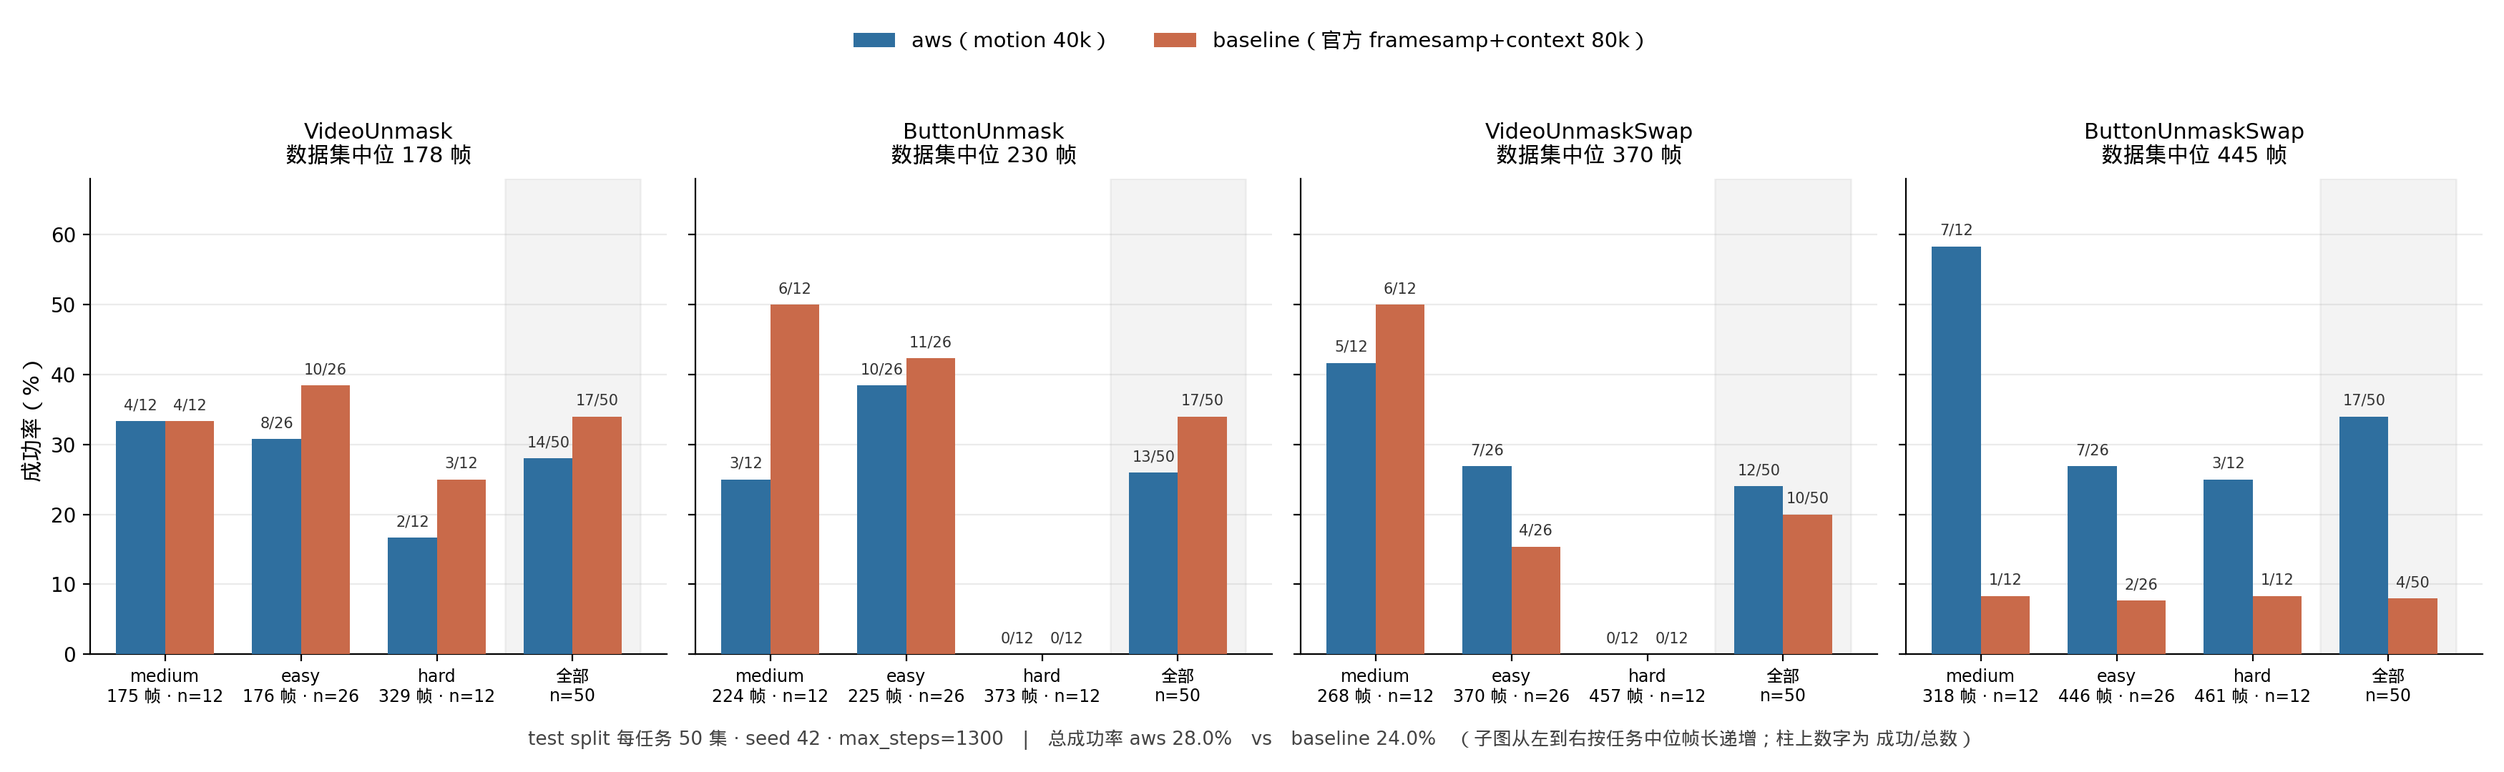
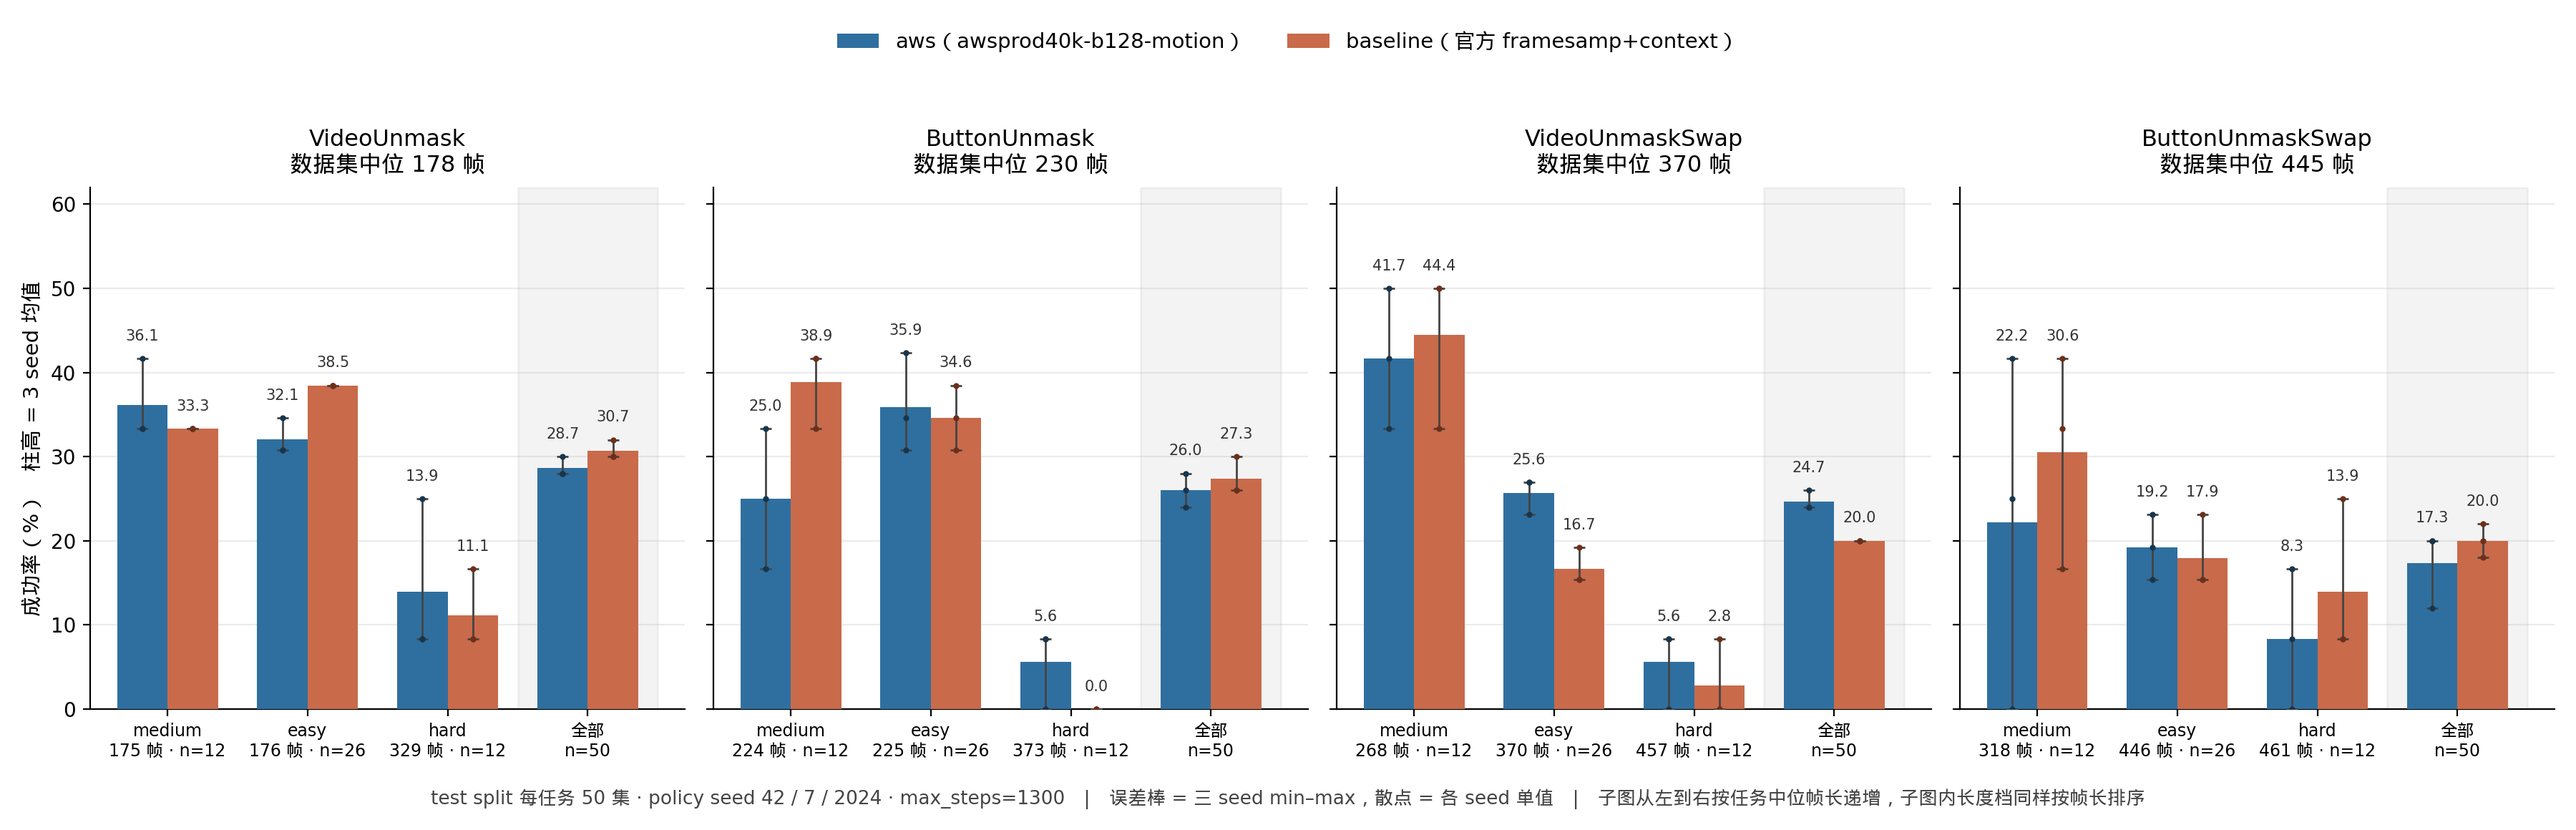
commitV5.14: 成功率对照图改用三 seed 数据——单 seed 版的长任务优势不成立
上一版（commitV5.13）用的是 eval-awsprod40k-b128-motion 与 eval-official-framesamp-context
两条单 seed run，读出「长任务 aws 明显占优、ButtonUnmaskSwap 34% vs 8%」。origin/v2-motionmem
上的 eval-3seed-context-vs-motion（SEED_AGG=DONE，两组 × 4 任务 × 50 集 × 3 seed = 1200 集，
errors=0）已把该口径推翻：同一 checkpoint 换 seed 后 ButtonUnmaskSwap 的 aws 三 seed 为
12/18/22%（均值 17.3%）、官方为 18/20/22%（均值 20.0%），差值由 +26.0pp 变为 -2.7pp。
故本图改读 records/per_episode_by_seed.json，柱高取三 seed 均值、误差棒取 min-max、
再叠三个 seed 的散点，让 seed 方差在图上直接可见。

保留的图形约定：四个子图按任务中位帧长递增排列（178 / 230 / 370 / 445 帧），子图内
长度档同样按该任务自己的中位帧长排序（多数任务是 medium < easy < hard），末档为 50 集合计
并加浅灰底。数字标签抬到误差棒上端之上，否则 min-max 跨度大的格子会把数字压住。

三 seed 下按长度分箱的结论（逐 seed 先合再算）：≤200 帧 aws 33.3% / base 36.8%，
200-300 帧 34.7% / 38.0%，300-400 帧 18.8% / 15.1%，>400 帧 13.3% / 13.3%——
单 seed 版那条「越长 aws 越占优」的单调趋势不再成立，只剩 VideoUnmaskSwap 一个任务
（+4.7pp）方向一致。总体 aws 24.2% vs base 24.5%。

脚本加 --ref 参数从任意 git ref 只读取逐集 JSON（默认 origin/v2-motionmem，因该留档尚未
合进本地分支），并在收尾用留档的 cells 字段逐格复核聚合口径，输出 CELL_CHECK=PASS
cells=24 mismatch=0。

Claude-Session: https://claude.ai/code/session_01QpApkGEbsdcgdftqZaEbK4

diff --git a/scripts/analysis/plot_eval_success_by_length.py b/scripts/analysis/plot_eval_success_by_length.py
@@ -1,20 +1,28 @@
 #!/usr/bin/env python3
-"""按任务长度画 aws motion run 与官方 framesamp+context baseline 的成功率对照图。
+"""按任务 × 任务长度画官方 framesamp+context baseline 与 aws motion run 的成功率对照图。
 
-四个任务各一张子图，横轴是该任务内部按中位 episode 帧长排序的难度档（easy/medium/hard），
-纵轴是成功率。所有数字从留档 JSON 现读，不手抄：
+四个任务各一张子图（从左到右按官方数据集中位 episode 帧长递增），子图内横轴是该任务
+自己的长度档（easy/medium/hard 按该任务的中位帧长排序，多数任务不是字面顺序），
+末尾补一档 50 集合计。柱高是三个 policy seed（42 / 7 / 2024）的成功率均值，
+误差棒取三 seed 的 min–max，叠加的散点是三个 seed 各自的值。
 
-- 成功/总数：docs/training-doc/<run>/records/per_episode.json 的 episodes 逐集 success 字段
+所有数字现读留档 JSON、不手抄：
+
+- 逐集成败：eval-3seed-context-vs-motion 的 records/per_episode_by_seed.json
+  （两组 × 4 任务 × 50 集 × 3 seed = 1200 集，SEED_AGG=DONE errors=0）。
+  该文件只在 origin/v2-motionmem 上，脚本按 --ref 用 `git show` 取，默认读工作区已有的那份。
 - 中位帧长：docs/dataset-build-doc/16task-h5-scan/records/memory_axis_16task.json
   （官方 H5 数据集 train split 口径，demo+exec 全长；eval 跑的是 test split，
    逐集实际执行步数未逐集留档，故长度轴用数据集口径的中位值作代理）
 
-用法：uv run python scripts/analysis/plot_eval_success_by_length.py
+用法：uv run python scripts/analysis/plot_eval_success_by_length.py [--ref origin/v2-motionmem]
 """
 
 from __future__ import annotations
 
+import argparse
 import json
+import subprocess
 from collections import defaultdict
 from pathlib import Path
 
@@ -25,24 +33,27 @@ import matplotlib.pyplot as plt
 from matplotlib import font_manager
 
 REPO = Path(__file__).resolve().parents[2]
-RUN_AWS = "eval-awsprod40k-b128-motion"
-RUN_BASE = "eval-official-framesamp-context"
+BY_SEED_REL = "docs/training-doc/eval-3seed-context-vs-motion/records/per_episode_by_seed.json"
 AXIS_JSON = REPO / "docs/dataset-build-doc/16task-h5-scan/records/memory_axis_16task.json"
 OUT_PNG = REPO / "docs/eval-success-by-task-length.png"
 
 TASKS = ["VideoUnmask", "ButtonUnmask", "VideoUnmaskSwap", "ButtonUnmaskSwap"]
 DIFFS = ["easy", "medium", "hard"]
 
-C_AWS = "#2f6f9f"      # 我们的 motion run
-C_BASE = "#c96a4a"     # 官方 baseline
-C_ALL = "#8c8c8c"      # 全任务合计一档的分隔底色
+# 组名 -> (图例, 柱色, 散点色)
+GROUPS = {
+    "motion": ("aws（awsprod40k-b128-motion）", "#2f6f9f", "#17364d"),
+    "official": ("baseline（官方 framesamp+context）", "#c96a4a", "#6e2f19"),
+}
+ORDER = ["motion", "official"]
 
 
 def setup_font() -> None:
     """拼一条 DejaVu Sans → Droid Sans Fallback 的字体回退链。
 
-    Droid Sans Fallback 是纯 CJK 回退字体，不含 ASCII 字形（单独用会丢掉 "+"、"c" 等字符），
-    所以拉丁字符交给 DejaVu Sans，中文由它兜底。
+    Droid Sans Fallback 是纯 CJK 回退字体、不含 ASCII 字形（单独用会丢 "+"、"c" 等字符），
+    所以拉丁字符交给 DejaVu Sans、中文由它兜底。回退必须直接写进 font.family 列表——
+    走 font.sans-serif 别名时 matplotlib 3.10 的 fallback 不生效（实测中文仍是豆腐块）。
     """
     fonts = ["DejaVu Sans"]
     cjk = Path("/usr/share/fonts/google-droid-sans-fonts/DroidSansFallbackFull.ttf")
@@ -53,16 +64,12 @@ def setup_font() -> None:
     plt.rcParams["axes.unicode_minus"] = False
 
 
-def load_counts(run_name: str) -> dict[tuple[str, str], list[int]]:
-    """读一条 eval run 的逐集结果，聚合成 (任务, 难度) -> [成功数, 总数]。"""
-    path = REPO / "docs/training-doc" / run_name / "records/per_episode.json"
-    data = json.loads(path.read_text())
-    counts: dict[tuple[str, str], list[int]] = defaultdict(lambda: [0, 0])
-    for ep in data["episodes"]:
-        key = (ep["task"], ep["difficulty"])
-        counts[key][1] += 1
-        counts[key][0] += int(ep["success"])
-    return counts, data["mean_rate"]
+def load_by_seed(ref: str | None) -> dict:
+    if ref:
+        out = subprocess.run(["git", "show", f"{ref}:{BY_SEED_REL}"], cwd=REPO,
+                             capture_output=True, text=True, check=True).stdout
+        return json.loads(out)
+    return json.loads((REPO / BY_SEED_REL).read_text())
 
 
 def load_medians() -> dict[tuple[str, str], int]:
@@ -74,70 +81,100 @@ def load_medians() -> dict[tuple[str, str], int]:
     }
 
 
-def main() -> None:
-    setup_font()
-    aws, aws_mean = load_counts(RUN_AWS)
-    base, base_mean = load_counts(RUN_BASE)
-    med = load_medians()
+def tally(data: dict) -> tuple[dict, list[str]]:
+    """聚合成 (组, 任务, 长度档) -> {seed: [成功数, 总数]}；"all" 档为该任务 50 集合计。"""
+    seeds = [str(s) for s in data["seeds"]]
+    cnt: dict[tuple[str, str, str], dict[str, list[int]]] = defaultdict(
+        lambda: {s: [0, 0] for s in seeds})
+    for ep in data["episodes"]:
+        for bucket in (ep["difficulty"], "all"):
+            cell = cnt[(ep["group"], ep["task"], bucket)]
+            for s in seeds:
+                cell[s][1] += 1
+                cell[s][0] += int(ep["results"][s]["success"])
+    return cnt, seeds
 
-    # 子图顺序 = 任务按 all 档中位帧长从短到长
+
+def main() -> None:
+    ap = argparse.ArgumentParser()
+    ap.add_argument("--ref", default="origin/v2-motionmem",
+                    help="从该 git ref 只读取逐集 JSON；留空则读工作区文件")
+    args = ap.parse_args()
+
+    setup_font()
+    data = load_by_seed(args.ref or None)
+    cnt, seeds = tally(data)
+    med = load_medians()
     tasks = sorted(TASKS, key=lambda t: med[(t, "all")])
 
-    fig, axes = plt.subplots(1, 4, figsize=(17.5, 5.4), sharey=True)
+    fig, axes = plt.subplots(1, 4, figsize=(18, 5.8), sharey=True)
     width = 0.36
-
     for ax, task in zip(axes, tasks):
-        # 任务内部按中位帧长排序（多数任务是 medium < easy < hard，不是字面顺序）
-        diffs = sorted(DIFFS, key=lambda d: med[(task, d)])
-        labels, aws_pct, base_pct, aws_txt, base_txt = [], [], [], [], []
-        for d in diffs:
-            a, b = aws[(task, d)], base[(task, d)]
-            labels.append(f"{d}\n{med[(task, d)]} 帧 · n={a[1]}")
-            aws_pct.append(a[0] / a[1] * 100)
-            base_pct.append(b[0] / b[1] * 100)
-            aws_txt.append(f"{a[0]}/{a[1]}")
-            base_txt.append(f"{b[0]}/{b[1]}")
-        # 末尾补一档任务合计（50 集）
-        a_all = [sum(aws[(task, d)][i] for d in DIFFS) for i in (0, 1)]
-        b_all = [sum(base[(task, d)][i] for d in DIFFS) for i in (0, 1)]
-        labels.append(f"全部\nn={a_all[1]}")
-        aws_pct.append(a_all[0] / a_all[1] * 100)
-        base_pct.append(b_all[0] / b_all[1] * 100)
-        aws_txt.append(f"{a_all[0]}/{a_all[1]}")
-        base_txt.append(f"{b_all[0]}/{b_all[1]}")
+        buckets = sorted(DIFFS, key=lambda d: med[(task, d)]) + ["all"]
+        labels = [
+            (f"全部\nn={cnt[('motion', task, 'all')][seeds[0]][1]}" if b == "all"
+             else f"{b}\n{med[(task, b)]} 帧 · n={cnt[('motion', task, b)][seeds[0]][1]}")
+            for b in buckets
+        ]
+        xs = range(len(buckets))
+        ax.axvspan(len(buckets) - 1.5, len(buckets) - 0.5, color="#8c8c8c", alpha=0.10, zorder=0)
 
-        xs = range(len(labels))
-        ax.axvspan(len(labels) - 1.5, len(labels) - 0.5, color=C_ALL, alpha=0.10, zorder=0)
-        bars_a = ax.bar([x - width / 2 for x in xs], aws_pct, width,
-                        label="aws（motion 40k）", color=C_AWS, zorder=3)
-        bars_b = ax.bar([x + width / 2 for x in xs], base_pct, width,
-                        label="baseline（官方 framesamp+context 80k）", color=C_BASE, zorder=3)
-        for bars, txts in ((bars_a, aws_txt), (bars_b, base_txt)):
-            for bar, txt in zip(bars, txts):
-                ax.text(bar.get_x() + bar.get_width() / 2, bar.get_height() + 1.2, txt,
-                        ha="center", va="bottom", fontsize=7.5, color="#333333", zorder=4)
+        for gi, gname in enumerate(ORDER):
+            legend, bar_c, dot_c = GROUPS[gname]
+            off = (gi - 0.5) * width
+            means, lo, hi, per_seed = [], [], [], []
+            for b in buckets:
+                cell = cnt[(gname, task, b)]
+                rates = [cell[s][0] / cell[s][1] * 100 for s in seeds]
+                m = sum(rates) / len(rates)
+                means.append(m)
+                lo.append(m - min(rates))
+                hi.append(max(rates) - m)
+                per_seed.append(rates)
+            bars = ax.bar([x + off for x in xs], means, width, label=legend,
+                          color=bar_c, zorder=3)
+            ax.errorbar([x + off for x in xs], means, yerr=[lo, hi], fmt="none",
+                        ecolor="#444444", elinewidth=1.0, capsize=3, zorder=5)
+            for x, rates in zip(xs, per_seed):
+                ax.scatter([x + off] * len(rates), rates, s=9, color=dot_c,
+                           zorder=6, linewidths=0)
+            # 标签抬到误差棒上端之上，否则 min-max 跨度大的格子会把数字压住
+            for bar, m, rates in zip(bars, means, per_seed):
+                ax.text(bar.get_x() + bar.get_width() / 2, max(max(rates), m) + 1.8,
+                        f"{m:.1f}", ha="center", va="bottom", fontsize=7.5,
+                        color="#333333", zorder=7)
 
         ax.set_xticks(list(xs))
         ax.set_xticklabels(labels, fontsize=8.5)
-        ax.set_title(f"{task}\n数据集中位 {med[(task, 'all')]} 帧", fontsize=11, pad=8)
-        ax.set_ylim(0, 68)
+        ax.set_title(f"{task}\n数据集中位 {med[(task, 'all')]} 帧", fontsize=11.5, pad=8)
+        ax.set_ylim(0, 62)
         ax.grid(axis="y", alpha=0.25, zorder=0)
         ax.set_axisbelow(True)
         for side in ("top", "right"):
             ax.spines[side].set_visible(False)
 
-    axes[0].set_ylabel("成功率（%）", fontsize=11)
+    axes[0].set_ylabel("成功率（%）　柱高 = 3 seed 均值", fontsize=10.5)
     handles, labels_ = axes[0].get_legend_handles_labels()
     fig.legend(handles, labels_, loc="upper center", ncol=2, frameon=False,
                bbox_to_anchor=(0.5, 0.985), fontsize=10.5)
     fig.suptitle(
-        f"test split 每任务 50 集 · seed 42 · max_steps=1300　|　"
-        f"总成功率 aws {aws_mean * 100:.1f}%　vs　baseline {base_mean * 100:.1f}%　"
-        f"（子图从左到右按任务中位帧长递增；柱上数字为 成功/总数）",
-        fontsize=9.5, y=0.055, color="#444444")
-    fig.tight_layout(rect=(0, 0.055, 1, 0.925))
+        "test split 每任务 50 集 · policy seed 42 / 7 / 2024 · max_steps=1300　|　"
+        "误差棒 = 三 seed min–max，散点 = 各 seed 单值　|　"
+        "子图从左到右按任务中位帧长递增，子图内长度档同样按帧长排序",
+        fontsize=9.5, y=0.05, color="#444444")
+    fig.tight_layout(rect=(0, 0.055, 1, 0.92))
     fig.savefig(OUT_PNG, dpi=200)
     print(f"WROTE {OUT_PNG}")
+
+    # 复核：与留档 cells 的逐格成功数逐一比对，防止聚合口径写错
+    bad = 0
+    for key, cell in data["cells"].items():
+        g, s, t = key.split("|")
+        got = cnt[(g, t, "all")][s]
+        if got[0] != cell["success"] or got[1] != cell["n"]:
+            print(f"MISMATCH {key}: got {got} want {cell['success']}/{cell['n']}")
+            bad += 1
+    print(f"CELL_CHECK={'PASS' if bad == 0 else 'FAIL'} cells={len(data['cells'])} mismatch={bad}")
 
 
 if __name__ == "__main__":
